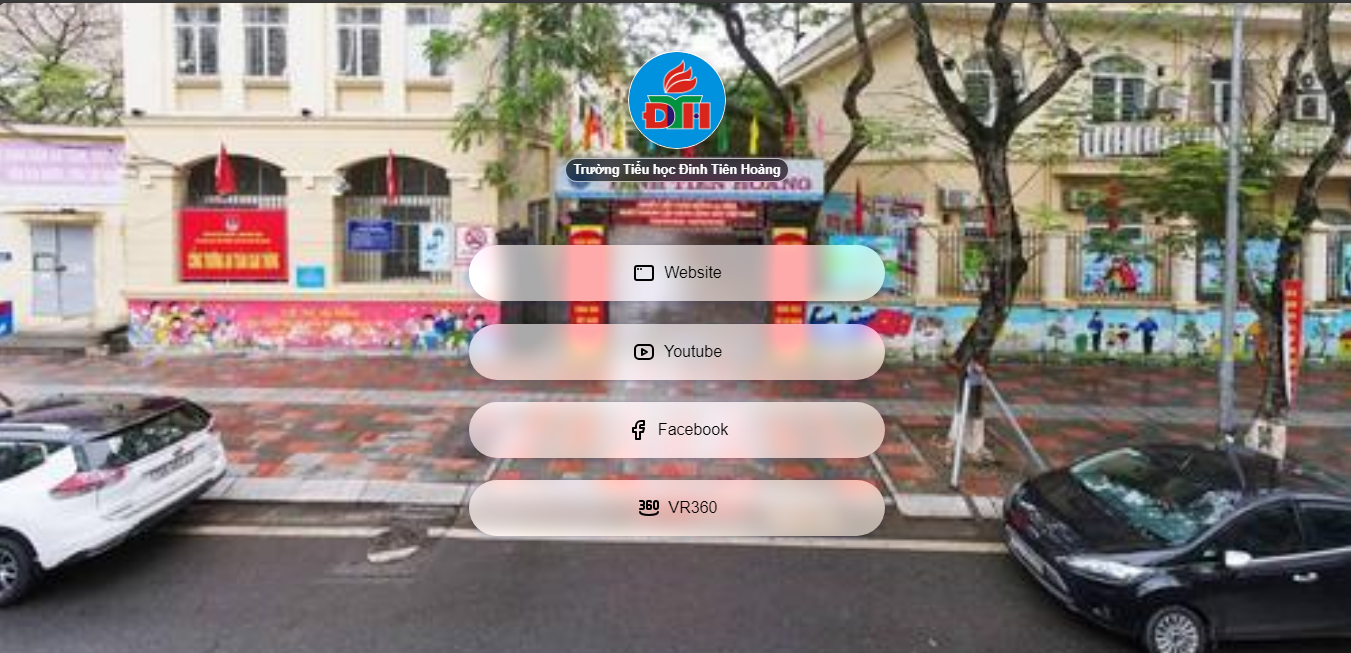
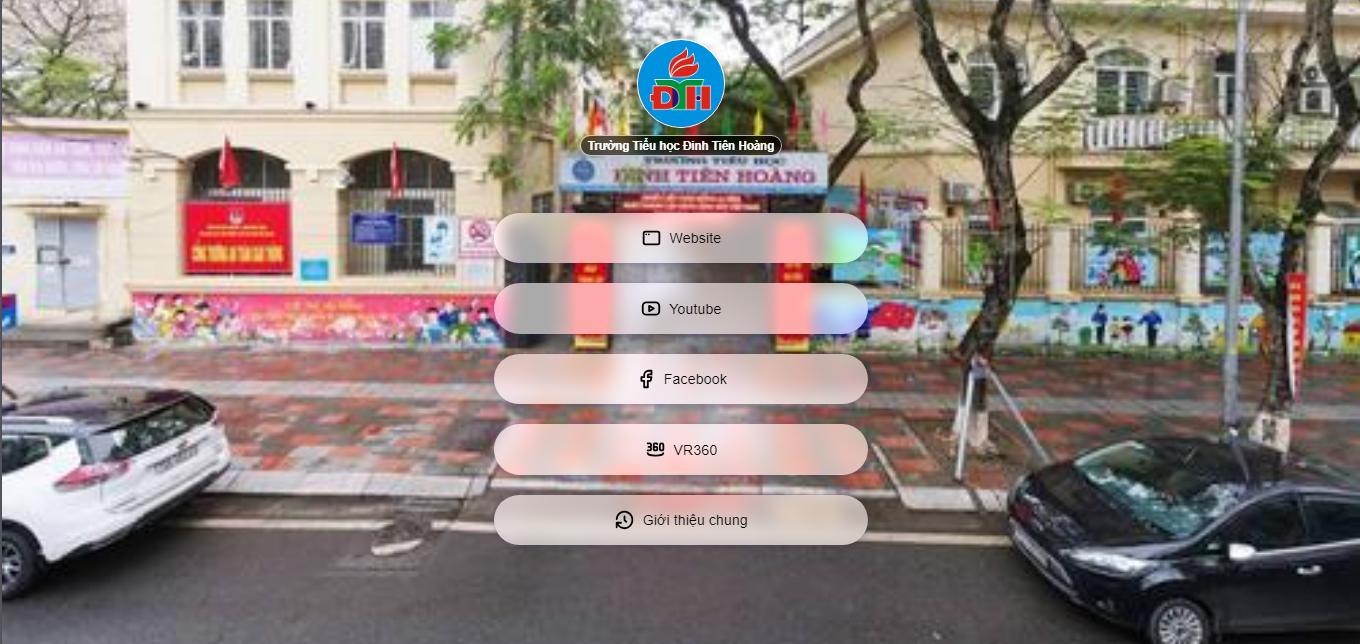
fix

diff --git a/index.html b/index.html
@@ -54,6 +54,16 @@
             VR360
           </a>
         </li>
+        <li>
+          <a href="https://thdinhtienhoang.haiphong.edu.vn/gioi-thieu-chung/qua-trinh-hinh-thanh-va-phat-trien-truong-tieu-hoc-dinh-tien-hoang/ct/16956/43136">
+            <svg xmlns="http://www.w3.org/2000/svg" class="icon icon-tabler icon-tabler-history" width="24" height="24" viewBox="0 0 24 24" stroke-width="2" stroke="currentColor" fill="none" stroke-linecap="round" stroke-linejoin="round">
+              <path stroke="none" d="M0 0h24v24H0z" fill="none"></path>
+              <path d="M12 8l0 4l2 2"></path>
+              <path d="M3.05 11a9 9 0 1 1 .5 4m-.5 5v-5h5"></path>
+            </svg>
+            Giới thiệu chung
+          </a>
+        </li>
       </ul>
   </body>
 </html>
